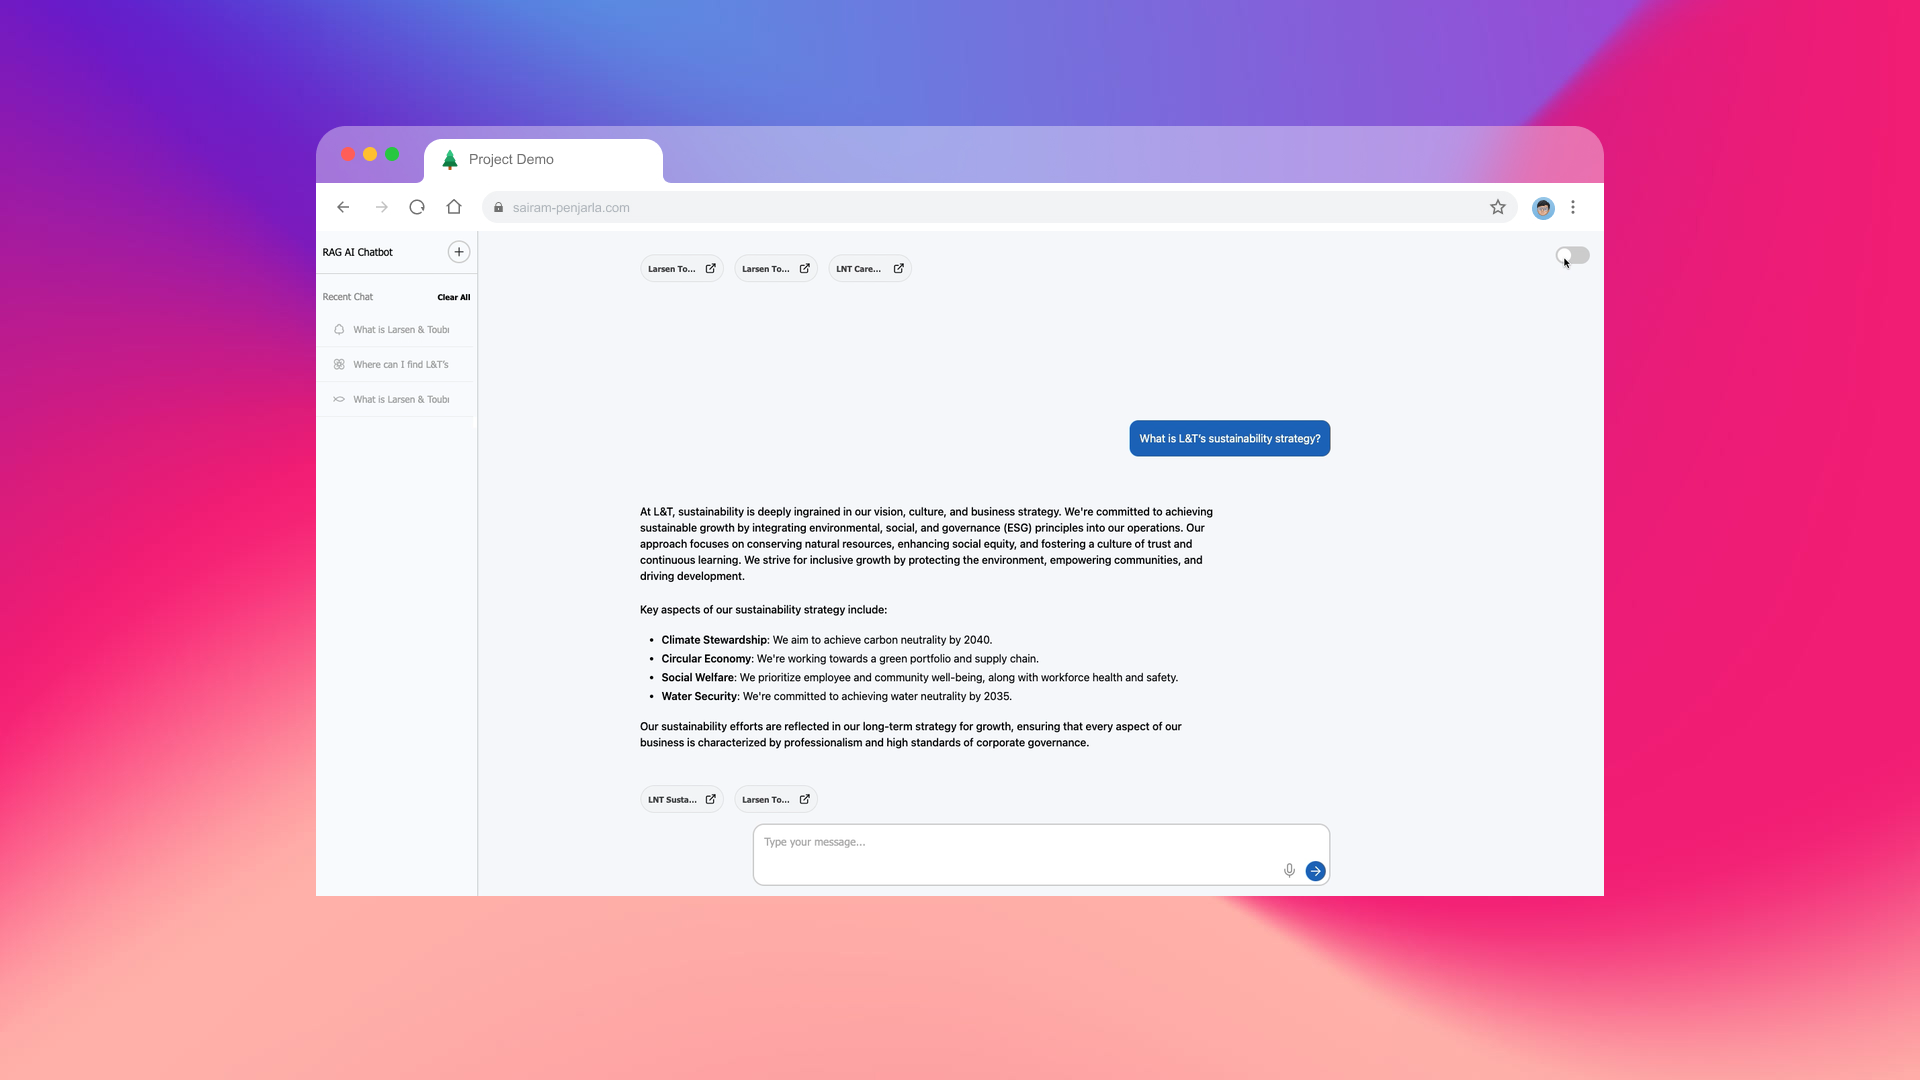
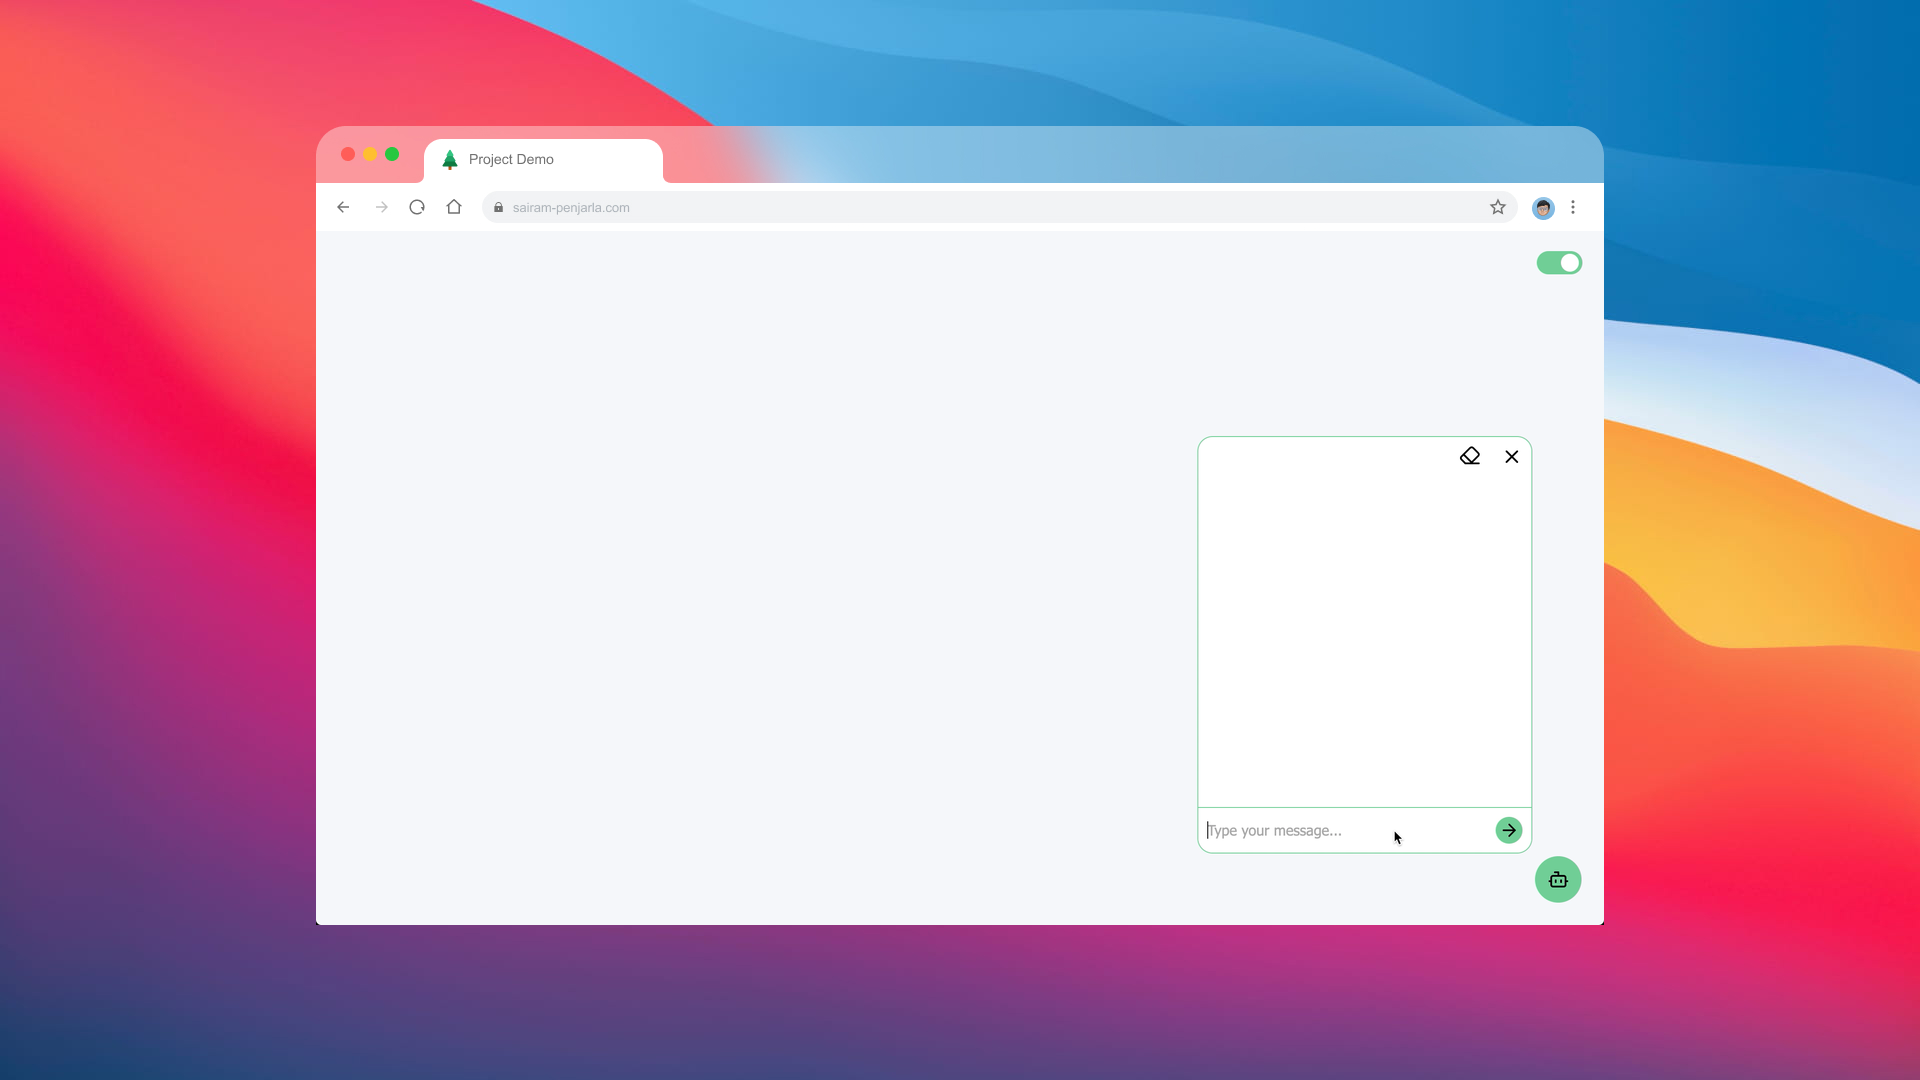
First commit

diff --git a/readme.md b/readme.md
@@ -1,126 +1,111 @@
-[![Website](https://img.shields.io/badge/Website-Visit-brightgreen)](https://psairam9301.wixsite.com/website) 
-[![YouTube](https://img.shields.io/badge/YouTube-Subscribe-red)](https://www.youtube.com/@sairampenjarla) 
-[![GitHub](https://img.shields.io/badge/GitHub-Explore-black)](https://github.com/sairam-penjarla) 
-[![LinkedIn](https://img.shields.io/badge/LinkedIn-Connect-blue)](https://www.linkedin.com/in/sairam-penjarla-b5041b121/) 
-[![Instagram](https://img.shields.io/badge/Instagram-Follow-ff69b4)](https://www.instagram.com/sairam.ipynb/)
+# [![Website](https://img.shields.io/badge/Website-Visit-brightgreen)](https://psairam9301.wixsite.com/website) [![YouTube](https://img.shields.io/badge/YouTube-Subscribe-red)](https://www.youtube.com/@sairampenjarla) [![GitHub](https://img.shields.io/badge/GitHub-Explore-black)](https://github.com/sairam-penjarla) [![LinkedIn](https://img.shields.io/badge/LinkedIn-Connect-blue)](https://www.linkedin.com/in/sairam-penjarla-b5041b121/) [![Instagram](https://img.shields.io/badge/Instagram-Follow-ff69b4)](https://www.instagram.com/sairam.ipynb/)
 
-# 📌 PDF-RAG AI Chatbot
+# 🔹 Virtual Assistant Chatbot with RAG Backend
 
-An AI chatbot built using **Retrieval-Augmented Generation (RAG)**, OpenAI, Flask, Python, and ChromaDB. The chatbot is designed to answer questions based on a structured knowledge base created from publicly available PDFs and web pages related to **L&T Construction Company**.
+A powerful virtual assistant chatbot built using OpenAI, ChromaDB, and Flask, designed to intelligently answer questions based on a structured knowledge base.
 
 ---
 
-## 🚀 Getting Started
+## 🚀 Installation & Setup
+
+Follow these steps to set up and run the project locally.
 
 ### 1⃣ Clone the Repository
 
-```sh
-git clone https://github.com/sairam-penjarla/pdf-rag-ai-chatbot.git
-cd pdf-rag-ai-chatbot
+```bash
+git clone https://github.com/sairam-penjarla/virtual-assistant-bot.git
+cd virtual-assistant-bot
 ```
 
-### 2⃣ Create a Virtual Environment
+### 2⃣ Set Up a Virtual Environment
 
-Follow this blog post for setting up a **virtual environment** or **Anaconda environment**:  
-🔗 [Environment Setup Guide](https://sairampenjarla.notion.site/Environment-171d56a2fc2780dd9efcd4cef331fa2c)
+Follow this guide on creating a virtual environment:  
+🔗 [How to Create a Virtual Environment](https://sairampenjarla.notion.site/Environment-171d56a2fc2780dd9efcd4cef331fa2c)
 
-For a virtual environment:
-```sh
+#### Using `venv` (Python's Built-in Virtual Environment)
+```bash
 python -m venv venv
-source venv/bin/activate  # On macOS/Linux
-venv\Scripts\activate      # On Windows
+source venv/bin/activate   # For macOS/Linux
+venv\Scripts\activate      # For Windows
 ```
 
-For an Anaconda environment:
-```sh
-conda create --name rag-chatbot python=3.9
-conda activate rag-chatbot
+#### Using Anaconda
+```bash
+conda create --name chatbot_env python=3.9
+conda activate chatbot_env
 ```
 
 ### 3⃣ Install Dependencies
-
-```sh
+```bash
 pip install -r requirements.txt
 ```
 
-### 4⃣ Set Up API Key
-
-Create a `.env` file in the project root and add your **OpenAI API Key**:
+### 4⃣ Set Up OpenAI API Key  
+Create a `.env` file in the root directory and add your OpenAI API key:
 
 ```
 OPENAI_API_KEY=your_openai_api_key_here
 ```
 
 ### 5⃣ Run the Project
-
-```sh
+```bash
 python app.py
 ```
 
-The application will be available at `http://localhost:5000`.
+The chatbot will now be available on `http://localhost:5000/`.
 
 ---
 
 ## 📌 Project Overview
 
-### 🔹 Features
-- Uses **RAG** to fetch relevant data from a **ChromaDB knowledge base**.
-- Chatbot is trained using publicly available **PDFs and web pages** about **L&T Construction**.
-- Users can ask questions, and the bot retrieves and generates accurate responses.
-- Provides **reference links** for every answer.
-- **Session management**: Previous chat sessions are stored and can be revisited via the sidebar.
-- **Smart Prompt Engineering**: Detects irrelevant or inappropriate queries and responds accordingly.
-- Built with **Flask, OpenAI API, SQLite, JavaScript, HTML, and CSS**.
-- Uses **streaming responses** for a natural typing effect.
-- Displays a **loading animation** while processing responses.
-- **Sidebar with session history** and delete options for individual sessions or all at once.
-- Uses **Lucide.dev icons** for an aesthetic UI.
+This project is a virtual assistant chatbot that interacts with users through a web interface. The chatbot utilizes a **Retrieval-Augmented Generation (RAG) backend**, combining **OpenAI, ChromaDB, and sentence transformers** to generate intelligent responses.
 
-### 🔹 How It Works
-1. The user submits a question.
-2. The backend queries **ChromaDB** to retrieve relevant content.
-3. The retrieved content + question is sent to OpenAI’s API.
-4. The response is streamed back **word by word** for a natural effect.
-5. The session and responses are stored in an **SQLite database**.
-6. Users can click on previous sessions in the sidebar to revisit past chats.
+### 🔥 Features
 
-### 🔹 Architecture Diagram
-📌 **How the chatbot processes user requests**  
-![Architecture Diagram](media/architecture%20Diagram.png)  
-
-**Description**:  
-- The user submits a request → `get_relevant_content` fetches data from the knowledge base.  
-- The retrieved content is sent to `invoke_agent`, which calls OpenAI’s API.  
-- The response is streamed back to the frontend.  
-- After completion, the session is updated in the database via `update_session`.  
+- 💬 **Toggle Chatbot Window** – The chatbot remains hidden until the user clicks on the chat icon.
+- 🗑 **Erase Conversations** – Users can clear previous interactions with one click.
+- 🔍 **Knowledge-Based Responses** – Answers are sourced from structured L&T Construction data.
+- 🔗 **Reference Links** – The chatbot cites sources for transparency.
+- ⏳ **Loading Animation** – Smooth user experience with real-time response streaming.
+- 🚫 **Inappropriate Question Handling** – Well-engineered prompts ensure the chatbot responds politely to irrelevant queries.
+- 🎨 **Dark Mode & Light Mode Support**
+- 🛠 **Built with**:
+  - `OpenAI API`
+  - `ChromaDB`
+  - `Flask`
+  - `Python`
+  - `SQLite`
+  - `HTML, CSS, JavaScript`
 
 ---
 
-## 📌 Screenshots
+## 🖼 Screenshots
 
-| Screenshot | Description |
-|------------|------------|
-| ![Welcome Screen](media/screenshot_6.png) | **Welcome screen** |
-| ![Chatbot Response (Light Mode)](media/screenshot_2.png) | **How chatbot responses look in light mode** |
-| ![Previous Sessions](media/screenshot_5.png) | **Sidebar showing previous sessions** |
-| ![Loading Animation](media/screenshot_1.png) | **Loading animation while processing input** |
-| ![Dark Mode UI](media/screenshot_4.png) | **Chatbot UI in dark mode** |
-| ![References Expanded](media/screenshot_3.png) | **Expanded reference section** |
-
----
-
-## 📌 Blog Article
-For a detailed breakdown of the project, visit the blog post:  
-🔗 **[RAG AI Chatbot – Full Guide](https://sairampenjarla.notion.site/RAG-AI-Chatbot-18dd56a2fc27803e91c7d76dbcb8d2b9)**
+| **Description** | **Screenshot** |
+|:--------------|:--------------:|
+| **1. Blank Webpage** - The chatbot icon and toggle button are displayed, but the chat window is hidden. | ![Blank Webpage](media/screenshot_1.png) |
+| **2. Chatbot Window Opened** - The conversation window pops up when the user clicks on the chatbot icon. | ![Chatbot Window](media/screenshot_2.png) |
+| **3. Loading Animation** - A loading animation appears before the chatbot starts generating a response. | ![Loading Animation](media/screenshot_3.png) |
+| **4. Light Mode Conversation with Loading Animation** - The chatbot is generating a response while in light mode. | ![Light Mode with Loading](media/screenshot_4.png) |
+| **5. Light Mode Conversation** - A complete chatbot response in light mode, including reference links. | ![Light Mode Response](media/screenshot_5.png) |
+| **6. Dark Mode Conversation** - A conversation displayed in dark mode. | ![Dark Mode Conversation](media/screenshot_6.png) |
+| **7. Dark Mode with Loading Animation** - Another chatbot response in dark mode while loading. | ![Dark Mode with Loading](media/screenshot_7.png) |
 
 ---
 
-## 📌 Connect with Me
+## 📖 Architecture Diagram
 
-[![Website](https://img.shields.io/badge/Website-Visit-brightgreen)](https://psairam9301.wixsite.com/website)  
-[![YouTube](https://img.shields.io/badge/YouTube-Subscribe-red)](https://www.youtube.com/@sairampenjarla)  
-[![GitHub](https://img.shields.io/badge/GitHub-Explore-black)](https://github.com/sairam-penjarla)  
-[![LinkedIn](https://img.shields.io/badge/LinkedIn-Connect-blue)](https://www.linkedin.com/in/sairam-penjarla-b5041b121/)  
-[![Instagram](https://img.shields.io/badge/Instagram-Follow-ff69b4)](https://www.instagram.com/sairam.ipynb/)  
+![Architecture](media/architecture.png)
 
-🚀 **Star the repo if you found this useful!**  
+---
+
+## 📚 Learn More
+
+🔗 **GitHub Repository:** [Virtual Assistant Bot](https://github.com/sairam-penjarla/virtual-assistant-bot/)  
+🔗 **Project Blog Post:** [Read More](https://sairampenjarla.notion.site/Virtual-Assistant-19ad56a2fc27802984c5e0287e4aec30?pvs=4)  
+
+---
+
+## ✨ Connect with Me!
+
+[![Website](https://img.shields.io/badge/Website-Visit-brightgreen)](https://psairam9301.wixsite.com/website)   [![YouTube](https://img.shields.io/badge/YouTube-Subscribe-red)](https://www.youtube.com/@sairampenjarla)   [![GitHub](https://img.shields.io/badge/GitHub-Explore-black)](https://github.com/sairam-penjarla)   [![LinkedIn](https://img.shields.io/badge/LinkedIn-Connect-blue)](https://www.linkedin.com/in/sairam-penjarla-b5041b121/)   [![Instagram](https://img.shields.io/badge/Instagram-Follow-ff69b4)](https://www.instagram.com/sairam.ipynb/)  
